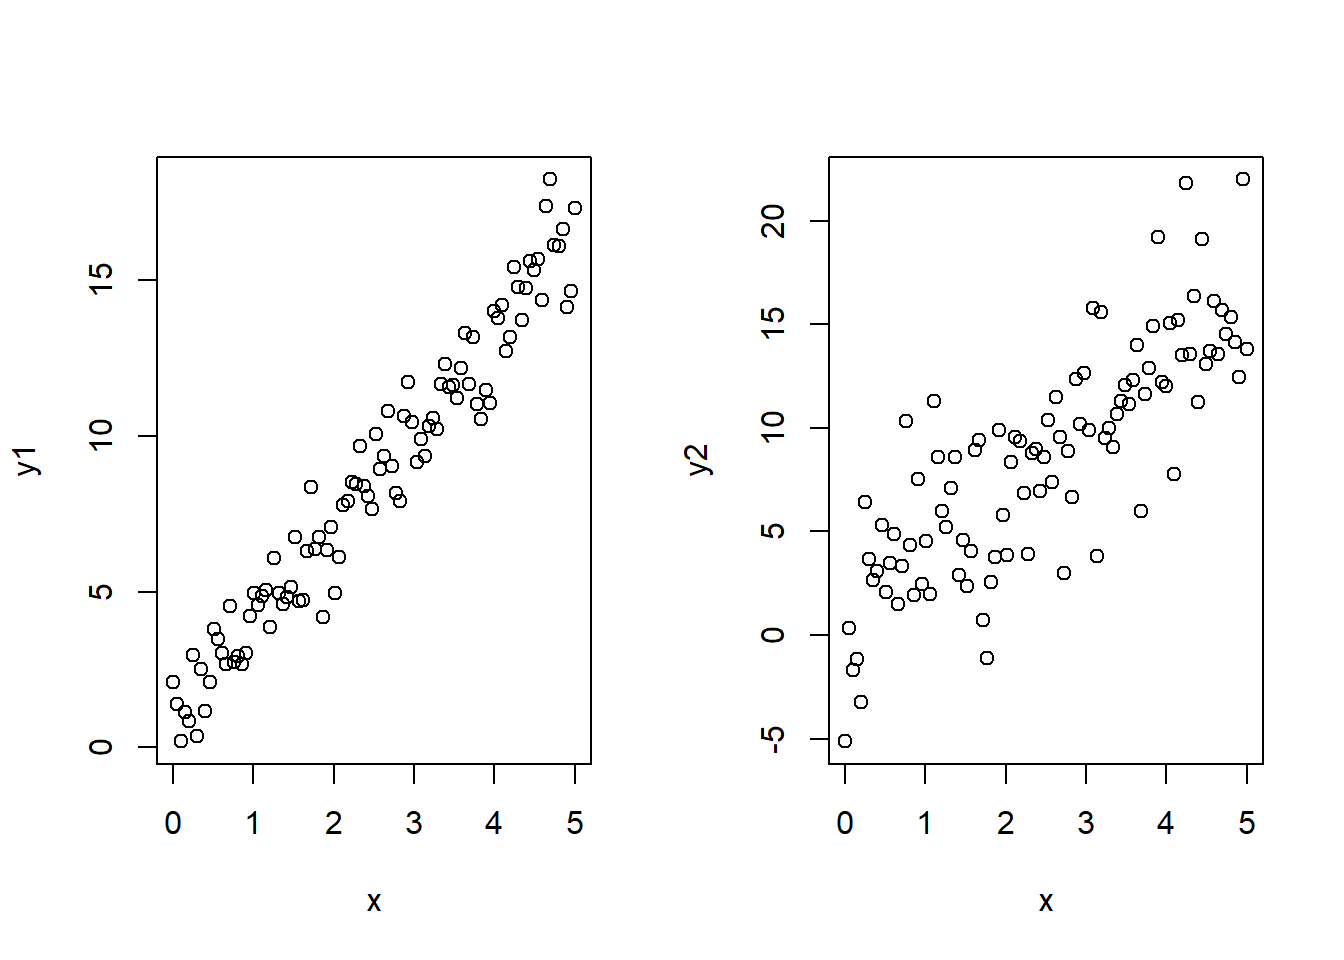
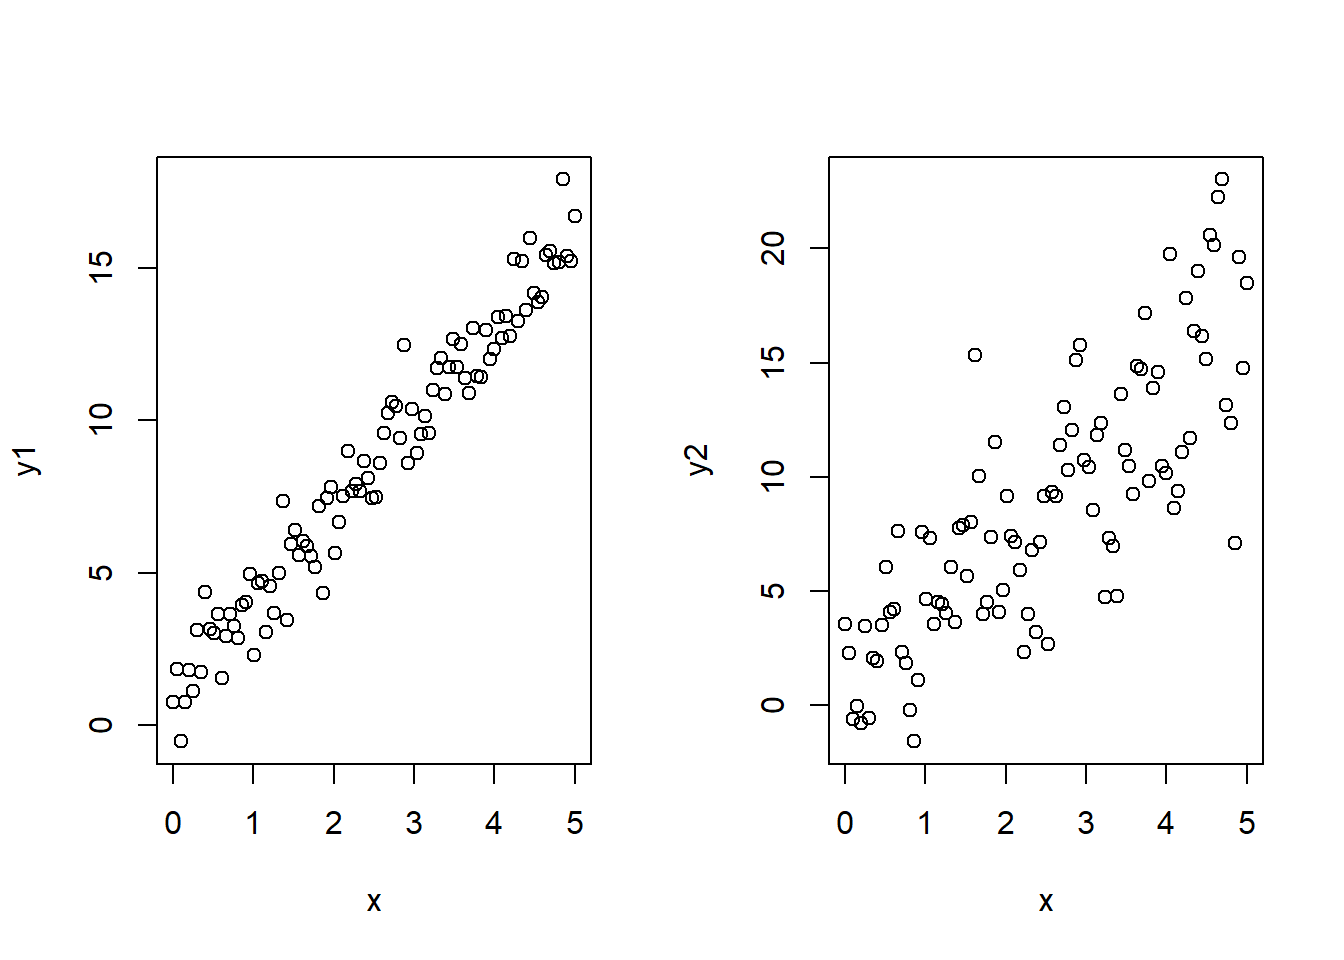
started sumamry for jan 31st

diff --git a/week4notes.html b/week4notes.html
@@ -714,19 +714,19 @@ Call:
 lm(formula = y1 ~ x)
 
 Residuals:
-    Min      1Q  Median      3Q     Max 
--2.4861 -0.6834  0.1127  0.6938  2.7846 
+     Min       1Q   Median       3Q      Max 
+-2.30186 -0.70004 -0.04144  0.65139  2.77579 
 
 Coefficients:
             Estimate Std. Error t value Pr(&gt;|t|)    
-(Intercept)  0.88271    0.20785   4.247 4.94e-05 ***
-x            3.09965    0.07182  43.159  &lt; 2e-16 ***
+(Intercept)  0.98998    0.19233   5.147 1.36e-06 ***
+x            3.02042    0.06646  45.448  &lt; 2e-16 ***
 ---
 Signif. codes:  0 '***' 0.001 '**' 0.01 '*' 0.05 '.' 0.1 ' ' 1
 
-Residual standard error: 1.047 on 98 degrees of freedom
-Multiple R-squared:   0.95, Adjusted R-squared:  0.9495 
-F-statistic:  1863 on 1 and 98 DF,  p-value: &lt; 2.2e-16</code></pre>
+Residual standard error: 0.9689 on 98 degrees of freedom
+Multiple R-squared:  0.9547,    Adjusted R-squared:  0.9542 
+F-statistic:  2066 on 1 and 98 DF,  p-value: &lt; 2.2e-16</code></pre>
 </div>
 </div>
 <ul>
@@ -741,18 +741,18 @@ lm(formula = y2 ~ x)
 
 Residuals:
     Min      1Q  Median      3Q     Max 
--7.4586 -1.6125 -0.1984  1.8285  7.8999 
+-9.1171 -2.3637 -0.0294  2.1443  9.2639 
 
 Coefficients:
             Estimate Std. Error t value Pr(&gt;|t|)    
-(Intercept)   0.9511     0.6180   1.539    0.127    
-x             3.0590     0.2135  14.326   &lt;2e-16 ***
+(Intercept)   0.9783     0.6727   1.454    0.149    
+x             3.1418     0.2324  13.517   &lt;2e-16 ***
 ---
 Signif. codes:  0 '***' 0.001 '**' 0.01 '*' 0.05 '.' 0.1 ' ' 1
 
-Residual standard error: 3.113 on 98 degrees of freedom
-Multiple R-squared:  0.6768,    Adjusted R-squared:  0.6735 
-F-statistic: 205.2 on 1 and 98 DF,  p-value: &lt; 2.2e-16</code></pre>
+Residual standard error: 3.389 on 98 degrees of freedom
+Multiple R-squared:  0.6509,    Adjusted R-squared:  0.6473 
+F-statistic: 182.7 on 1 and 98 DF,  p-value: &lt; 2.2e-16</code></pre>
 </div>
 </div>
 <ul>
